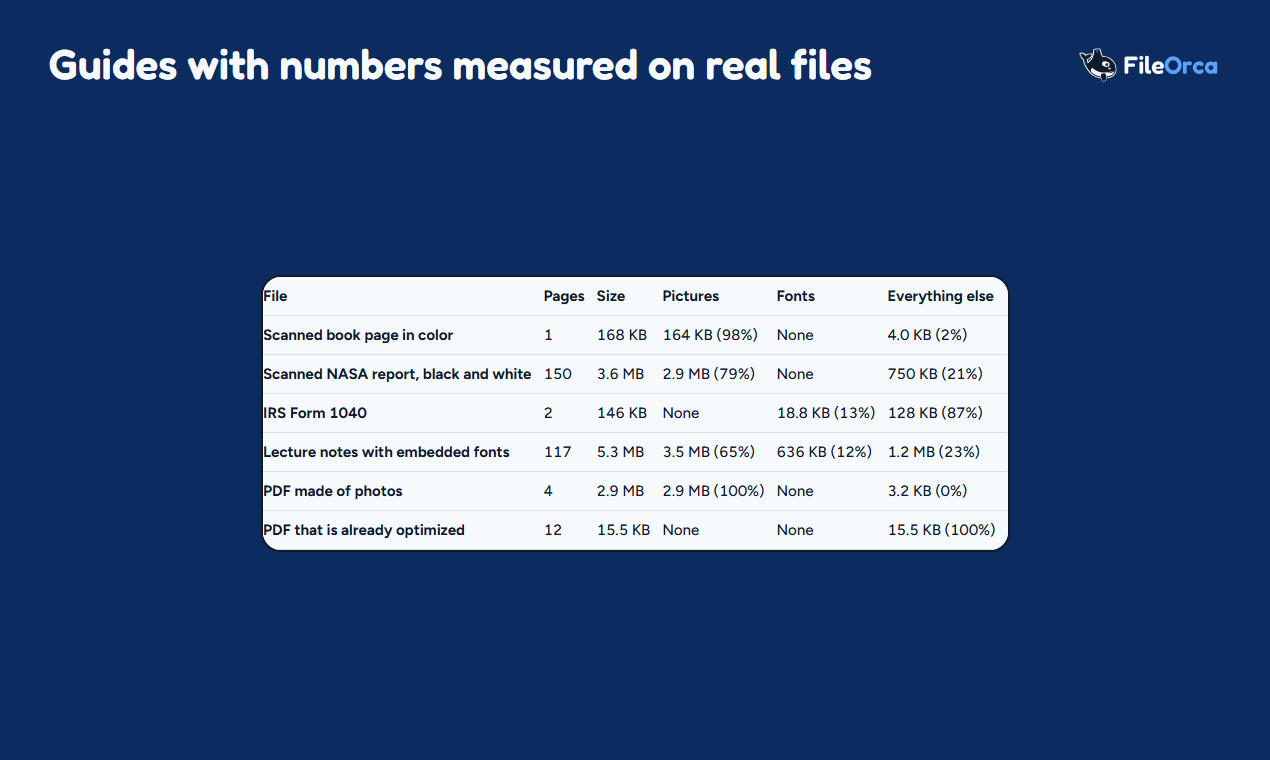
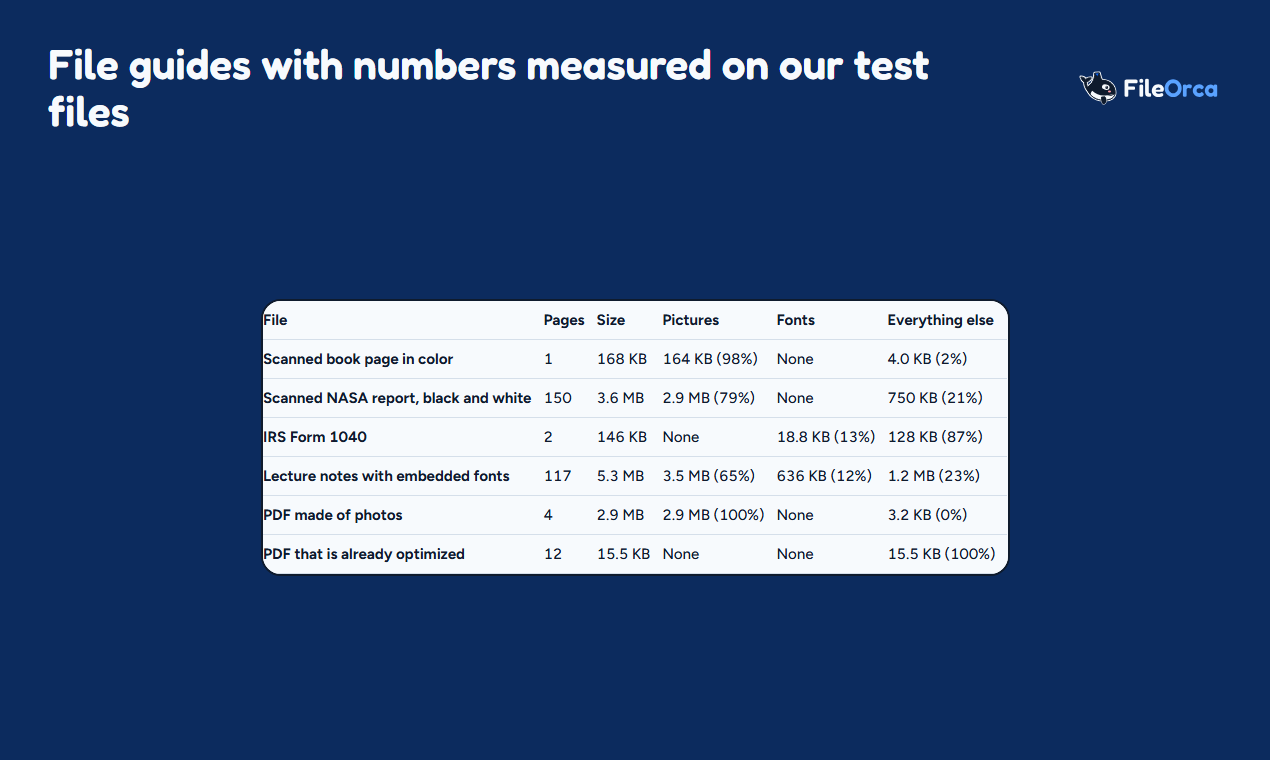
fix(launch): claim only what the proofs cover in the Product Hunt kit
- "measured" goes with the 10 file guides only; the 5 money guides are worked out by the calculators (review A-1)
- offline only after the page and the codec of the file type load; the browsers answer names the two engines the
  tests run; no "No limit", no speed claim, no loose "unlock", no origin story about other sites (A-7, C-2, F-14)
- each item of "Provas" lists its proven phrases, with new items for the ads, Ko-fi, Analytics and cookie notice, and
  the money calculators (C-7); routes.test.ts proves there is no account page
- launch-kit.test.ts fails a technical English sentence with no proven phrase, offline without the codec, an untested
  browser, a forbidden word and "measured" on another count, with controls
- gallery 4 says "File guides with numbers measured on our test files"; images regenerated

Changed region(s): [[0.1843, 0.3632, 0.7984, 0.7566], [0.0307, 0.0605, 0.737, 0.1816], [0.8291, 0.0605, 0.9827, 0.1513]]

diff --git a/tests/unit/launch-kit.test.ts b/tests/unit/launch-kit.test.ts
@@ -11,6 +11,7 @@ import { IMAGE_PRESET_IDS, IMAGE_TOOL_IDS } from '../../src/tools/image/registry
 import { PDF_TOOL_IDS } from '../../src/tools/pdf/registry.ts';
 import { CALC_TOOL_IDS, GUIDE_IDS } from '../../src/tools/calc/registry.ts';
 import { FILE_GUIDE_IDS } from '../../src/tools/guides/registry.ts';
+import { FORBIDDEN_WORDS, TOOL_NAME } from '../../scripts/lib/design-checks.ts';
 import { pngChunks } from '../e2e/lib/png.ts';
 
 const KIT = 'docs/lancamento/product-hunt.md';
@@ -24,6 +25,9 @@ const COUNTS = {
   'pdf-tools': PDF_TOOL_IDS.length,
   calculators: CALC_TOOL_IDS.length,
   guides: GUIDE_IDS.length + FILE_GUIDE_IDS.length,
+  /** Only the file guides have numbers measured on test files; the money guides' come from the engines (DECISOES § 204). */
+  'file-guides': FILE_GUIDE_IDS.length,
+  'money-guides': GUIDE_IDS.length,
 };
 
 /** Limits read on 2026-11-01 (the kit's table "Campos e limites"). */
@@ -36,7 +40,64 @@ const PHRASES: [RegExp, keyof typeof COUNTS][] = [
   [/\b(\d+) PDF tools\b/g, 'pdf-tools'],
   [/\b(\d+) money calculators\b/g, 'calculators'],
   [/\b(\d+) guides\b/g, 'guides'],
+  [/\b(\d+) file guides\b/g, 'file-guides'],
+  [/\b(\d+) money guides\b/g, 'money-guides'],
 ];
+
+// ---- what the English texts may claim (DECISOES § 204 and § 205) ---------------------------------------------------
+
+/** The texts of the kit that go out in English: the code blocks, the taglines, the suggested answers and the captions. */
+function englishOf(text: string): string[] {
+  const out = [...text.matchAll(/```\n([\s\S]*?)\n```/g)].map((match) => match[1] as string);
+  out.push(...[...text.matchAll(/^- \*\*\(\d+\)\*\* `([^`]+)`$/gm)].map((match) => match[1] as string));
+  const questions = text.slice(text.indexOf('## Perguntas prováveis'), text.indexOf('## Imagens'));
+  for (const line of questions.matchAll(/^- \*\*"[^"]+"\*\* (.*)$/gm)) out.push(...[...(line[1] as string).matchAll(/"([^"]+)"/g)].map((match) => match[1] as string));
+  out.push(...[...text.matchAll(/Caption: "([^"]+)"/g)].map((match) => match[1] as string));
+  return out;
+}
+
+const sentencesOf = (texts: readonly string[]): string[] => texts.flatMap((text) => text.split(/(?<=[.!?])\s+|\n+/)).map((sentence) => sentence.trim()).filter(Boolean);
+
+/** The claims of the section "Provas": the quoted phrases of each item's heading, with the files the item cites. */
+function proofsOf(text: string): { claims: string[]; files: string[] }[] {
+  const section = text.slice(text.indexOf('## Provas'), text.indexOf('## O que ficou fora'));
+  return section.split(/\n(?=\d+\. \*\*)/).slice(1).map((item) => ({
+    claims: [...(/^\d+\. \*\*(.+?)\*\*/.exec(item)?.[1] ?? '').matchAll(/"([^"]+)"/g)].map((match) => (match[1] as string).replace(/[.,]$/, '')),
+    files: [...item.matchAll(/`((?:tests|src|scripts)\/[\w./-]+\.ts|playwright\.config\.ts)`/g)].map((match) => match[1] as string),
+  }));
+}
+
+/** A sentence that makes a technical promise: where the file goes, offline, browsers, ads, analytics, account, batches. */
+const TECHNICAL = /\bupload\w*|\boffline\b|\bin your browser\b|\bon your device\b|\bnever leaves\b|\bnever sent\b|\bnot sent\b|\bAdSense\b|\bads?\b|\bAnalytics\b|\bConsent Mode\b|\bcookies?\b|\baccount\b|\bsign-up\b|\bZIP\b|Ctrl\+V|\bWebAssembly\b|\bNetwork tab\b|\bno request\b|\bChromium\b|\bWebKit\b|\bKo-fi\b/i;
+/** The engines the tests run: the projects of playwright.config.ts. Naming another browser claims a test nobody ran. */
+const BROWSER_NAMES = /\b(?:Chromium|WebKit|Chrome|Edge|Firefox|Safari|Opera|Brave|Vivaldi|Samsung Internet)\b/g;
+const TESTED = [...readFileSync('playwright.config.ts', 'utf8').matchAll(/name: '(\w+)'/g)].map((match) => (match[1] as string).toLowerCase());
+
+function claimProblems(text: string): string[] {
+  const problems: string[] = [];
+  const proven = proofsOf(text).filter((proof) => proof.files.length > 0 && proof.files.every((file) => existsSync(file))).flatMap((proof) => proof.claims.map((claim) => claim.toLowerCase()));
+  const english = englishOf(text);
+  for (const sentence of sentencesOf(english)) {
+    const lower = sentence.toLowerCase();
+    if (TECHNICAL.test(sentence) && !proven.some((claim) => lower.includes(claim))) problems.push(`"${sentence}": afirmação técnica sem prova na seção Provas`);
+    if (/\boffline\b/i.test(sentence) && !/\bcodec\b/i.test(sentence)) problems.push(`"${sentence}": offline só depois que a página e o codec carregam (show-hn.md)`);
+    for (const name of sentence.match(BROWSER_NAMES) ?? []) if (!TESTED.includes(name.toLowerCase())) problems.push(`"${sentence}": ${name} não é um motor que os testes rodam (${TESTED.join(', ')})`);
+    if (/\b(?:most|many|other) (?:sites|tools|services|apps)\b/i.test(sentence)) problems.push(`"${sentence}": fala de outros sites sem prova`);
+    const word = FORBIDDEN_WORDS.exec(sentence.replace(TOOL_NAME, ''))?.[0];
+    if (word) problems.push(`"${sentence}": "${word}" é palavra proibida (só o nome "Unlock PDF", § 153)`);
+  }
+  for (const sentence of [...sentencesOf(english), ...proofsOf(text).flatMap((proof) => proof.claims)]) problems.push(...measuredProblems(sentence));
+  return problems;
+}
+
+/** "measured" goes with the file guides only: the nearest count before it is theirs, or the sentence says "file guides". */
+function measuredProblems(sentence: string): string[] {
+  const at = sentence.toLowerCase().search(/\bmeasured\b/);
+  if (at < 0) return [];
+  const last = [...sentence.slice(0, at).matchAll(/\b(\d+)\b/g)].at(-1)?.[1];
+  const ok = last ? Number(last) === COUNTS['file-guides'] : /\bfile guides?\b/i.test(sentence.slice(0, at));
+  return ok ? [] : [`"${sentence}": "measured" vale só para os ${COUNTS['file-guides']} guias de arquivo`];
+}
 
 function countProblems(text: string): string[] {
   const problems: string[] = [];
@@ -103,6 +164,30 @@ describe('the texts of the Product Hunt kit', () => {
     const files = [...proofs.matchAll(/`((?:tests|src|scripts)\/[\w./-]+\.ts|playwright\.config\.ts)`/g)].map((match) => match[1] as string);
     expect(files.length).toBeGreaterThan(5);
     for (const file of files) expect(existsSync(file), file).toBe(true);
+  });
+
+  it('tie every technical sentence in English to a proof, and claim only what the proofs cover (DECISOES § 204 and § 205)', () => {
+    expect(englishOf(kit).length, 'the English texts are found').toBeGreaterThan(10);
+    expect(proofsOf(kit).flatMap((proof) => proof.claims).length, 'the claims of the proofs are found').toBeGreaterThan(10);
+    expect(TESTED).toEqual(['chromium', 'webkit']);
+    expect(claimProblems(kit)).toEqual([]);
+  });
+
+  it('fail an answer with no proof, an untested browser, offline without the codec, a loose "unlock" and "measured" on all guides (controls)', () => {
+    const answer = (text: string): string => kit.replace(/(- \*\*"How do you make money\?"\*\* )"[^"]+"/, `$1"${text}"`);
+    expect(claimProblems(answer('Ads never show next to a download.')).join()).toMatch(/Ads never show next to a download\.": afirmação técnica sem prova/);
+    expect(claimProblems(answer('Every tool is tested automatically in Chromium and in WebKit. Use a current Chrome, Edge, Firefox or Safari.')).join()).toMatch(/Chrome não é um motor.*Firefox não é um motor/);
+    expect(claimProblems(answer('Once a tool has loaded, it keeps working if you go offline.')).join()).toMatch(/offline só depois que a página e o codec carregam/);
+    expect(claimProblems(answer('There is no account. You can protect, unlock and watermark PDFs.')).join()).toMatch(/"unlock" é palavra proibida/);
+    expect(claimProblems(answer('There is no account. Unlock PDF removes a password.'))).toEqual([]);
+    expect(claimProblems(answer('There is no account, and most sites want you to upload it first.')).join()).toMatch(/fala de outros sites/);
+    expect(measuredProblems('plus 15 guides whose numbers were measured on real test files')).toHaveLength(1);
+    expect(measuredProblems('15 guides with measured numbers')).toHaveLength(1);
+    expect(measuredProblems(`15 guides, ${COUNTS['file-guides']} of them with numbers measured on real test files`)).toEqual([]);
+    expect(measuredProblems('File guides with numbers measured on real files')).toEqual([]);
+    expect(measuredProblems('Guides with numbers measured on real files')).toHaveLength(1);
+    // A proof whose test file does not exist proves nothing.
+    expect(claimProblems(kit.replace('`tests/e2e/consent.spec.ts`', '`tests/e2e/no-such.spec.ts`')).join()).toMatch(/Google Analytics with Consent Mode.*afirmação técnica sem prova/);
   });
 
   it('say no forbidden word, no "fastest", "best" or "#1" in the English texts', () => {

diff --git a/tests/unit/routes.test.ts b/tests/unit/routes.test.ts
@@ -84,6 +84,16 @@ describe('mapa de rotas', () => {
     expect(pages.sort()).toEqual([...expected].sort());
   });
 
+  it('has no page of an account: no sign-in, sign-up, login or profile, the proof of "There is no account" in the launch kit (DECISOES § 205)', () => {
+    const ACCOUNT = /(?:^|[/-])(?:login|log-?in|sign-?in|sign-?up|register|account|profile|my-?files|entrar|cadastro|conta|cuenta|registro|perfil)(?:[/-]|$)/i;
+    const paths = ROUTES.flatMap((route) => Object.values(route.paths));
+    expect(paths.filter((path) => ACCOUNT.test(path))).toEqual([]);
+    expect(pageFiles().filter((file) => ACCOUNT.test(file.replace(/^src\/pages/, '').replace(/\/index\.astro$/, '')))).toEqual([]);
+    // The rule sees an account page (control).
+    expect(ACCOUNT.test('/account/')).toBe(true);
+    expect(ACCOUNT.test('/pt/entrar/')).toBe(true);
+  });
+
   it('points every route at its view and text files', () => {
     for (const route of ROUTES) {
       expect(existsSync(route.view), route.view).toBe(true);

diff --git a/scripts/lancamento/imagens.ts b/scripts/lancamento/imagens.ts
@@ -221,7 +221,7 @@ const SHOTS: Shot[] = [
   },
   {
     file: 'gallery-4.png',
-    caption: 'Guides with numbers measured on real files',
+    caption: 'File guides with numbers measured on our test files',
     alt: 'The guide "Why is my PDF so large?": its table of what takes the space in each test PDF, in pictures, fonts and everything else.',
     take: async (page) => {
       await open(page, '/guides/why-is-my-pdf-so-large/');

diff --git a/docs/lancamento/product-hunt.md b/docs/lancamento/product-hunt.md
@@ -102,16 +102,16 @@ Taglines (limite de 60):
 
 Por que a primeira: diz as três áreas e a diferença, sem adjetivo nem número. A segunda põe "free" na frente, que é verdade e é o que o visitante procura. A terceira troca a categoria pelas ações mais buscadas.
 
-**Descrição A (437 caracteres):**
+**Descrição A (443 caracteres):**
 
 ```
-FileOrca is a set of free tools for everyday files, and the work happens in your browser: your files are not uploaded. Compress, resize, crop and convert images (HEIC, WebP, PNG, JPG), merge, split, compress and sign PDFs, and work out a mortgage or a debt payoff plan. There are 8 image tools, 12 PDF tools and 14 money calculators, plus 15 guides whose numbers were measured on real test files. No sign-up: open a tool and drop a file.
+FileOrca is a set of free tools for everyday files, and the work happens in your browser: your files are not uploaded. Compress, resize, crop and convert images (HEIC, WebP, PNG, JPG), merge, split, compress and sign PDFs, and work out a mortgage or a debt payoff plan. There are 8 image tools, 12 PDF tools and 14 money calculators, plus 15 guides, 10 of them with numbers measured on real test files. No sign-up: open a tool and drop a file.
 ```
 
-**Descrição B (301 caracteres):**
+**Descrição B (313 caracteres):**
 
 ```
-Free image, PDF and money tools that run in your browser. Your files are not uploaded: the work happens on your device, and you can see it in the Network tab. 8 image tools, 12 PDF tools, 14 money calculators and 15 guides with measured numbers. No sign-up, and a batch of files comes back as one ZIP.
+Free image, PDF and money tools that run in your browser. Your files are not uploaded: the work happens on your device, and you can see it in the Network tab. 8 image tools, 12 PDF tools, 14 money calculators and 15 guides, 10 of them with measured numbers. No sign-up, and a batch of files comes back as one ZIP.
 ```
 
 Por que a A: começa pelo que é e pela diferença, lista o que dá para fazer com os nomes que as pessoas buscam (HEIC, WebP) e termina no que a pessoa faz primeiro. A B é a curta, para quando a página de produto já mostrar a lista na galeria.
@@ -124,20 +124,20 @@ Escolha até 3 no formulário. Sugestões, pela ordem: **Productivity**, **Priva
 
 Poste como o primeiro comentário, logo que o lançamento entrar no ar. Reescreva com as suas palavras: o Product Hunt não quer comentário de IA.
 
-**Primeiro comentário (1506 caracteres):**
+**Primeiro comentário (1544 caracteres):**
 
 ```
 Hi Product Hunt! I'm Victor, a developer in Curitiba, Brazil, and I built FileOrca on my own.
 
-It started with a small annoyance: to make a photo smaller or turn an iPhone HEIC into a JPG, most sites want you to upload it first. That work can happen on your own device, so I built the tools to do it there.
+FileOrca does the work in your browser: you can make a photo smaller or turn an iPhone HEIC into a JPG without uploading it.
 
 What you can do today:
 - Images: compress, resize, crop, rotate, HEIC to JPG, WebP to JPG, PNG to JPG, and images into one PDF. 8 image tools and 3 presets for common limits.
-- PDFs: merge, split, compress, PDF to JPG, sign, protect, unlock, watermark, page numbers and more. 12 PDF tools.
+- PDFs: merge, split, compress, PDF to JPG, sign, add or remove a password, watermark, page numbers and more. 12 PDF tools.
 - Money: a mortgage calculator, refinance, loans, debt payoff and others. 14 money calculators.
-- 15 guides, where every number was measured on real test files with the same tools.
+- 15 guides: 10 file guides with numbers measured on real test files with the same tools, and 5 money guides worked out by the engines of the calculators.
 
-How it works: the site is static. The tools run in your browser, with WebAssembly codecs that load the first time you need them. Your file is not uploaded: open the Network tab in your browser's developer tools, use a tool, and you will see that no request carries it. Once a tool has loaded, it keeps working if you go offline.
+How it works: the site is static. The tools run in your browser, with WebAssembly codecs that load the first time you need them. Your file is not uploaded: open the Network tab in your browser's developer tools, use a tool, and you will see that no request carries it. After the page and the codec for your type of file have loaded, the tool keeps working if you go offline.
 
 There is no account. You can drop one file or a whole batch, paste with Ctrl+V, and get a batch back as one ZIP.
 
@@ -148,7 +148,9 @@ I would love your feedback: what file did you try, did it work, and what tool is
 
 Notas sobre o texto:
 
-- As afirmações técnicas do comentário são as da seção "Provas": o arquivo não é enviado (Network tab), a ferramenta segue funcionando offline depois de carregar, e as contagens dos registros.
+- As afirmações técnicas do comentário são as da seção "Provas": o arquivo não é enviado (Network tab), a ferramenta segue funcionando offline depois que a página e o codec do tipo de arquivo carregaram, os anúncios fora das ferramentas, o Ko-fi, a ausência de conta, o lote com Ctrl+V e ZIP, e as contagens dos registros. O `tests/unit/launch-kit.test.ts` reprova uma frase técnica em inglês que não contenha uma das frases provadas.
+- O comentário não conta a história de como o site nasceu: a run não sabe essa história. Se quiser contá-la, escreva com as suas palavras, sem falar de outros sites.
+- "measured" vale só para os 10 guias de arquivo. Os 5 guias de dinheiro têm os números calculados pelos motores das calculadoras, sem arquivo de teste.
 - A frase "ads from Google AdSense" só vale **se os anúncios estiverem ligados no dia**. Se não estiverem, troque por "Ads are not on yet. When they are, Google AdSense will pay the costs. There is also an optional Ko-fi link."
 - O comentário não diz se o código é aberto. Veja a pergunta abaixo.
 - A exclamação do "Hi Product Hunt!" é do tom do site, mas reescreva como você cumprimentaria.
@@ -157,12 +159,12 @@ Notas sobre o texto:
 
 Só use o que for verdade no dia. Responda curto, com curiosidade e sem comparar para ganhar.
 
-- **"How do you make money?"** "Ads from Google AdSense, kept away from the tools, and an optional Ko-fi link. There is no paid plan." (Se os anúncios ainda não estiverem ligados, diga isso e que o AdSense vai pagar os custos quando estiverem.)
-- **"Why no upload? Isn't a server faster?"** "For most files the device is fast enough, and it means your file never leaves it. Private photos and documents stay private, and there is no server holding copies."
-- **"Are there limits?"** "No limit on how many files you drop at once. The real limit is your device's memory: a very large photo or a very long PDF can be too much for an older phone." (Não invente um número.)
-- **"Which browsers?"** "Every tool is tested automatically in Chromium and in WebKit. Use a current Chrome, Edge, Firefox or Safari." (Afirme só os dois motores que os testes cobrem.)
+- **"How do you make money?"** "Ads from Google AdSense, kept away from the tools, and an optional Ko-fi link. There is no paid plan." (Se os anúncios ainda não estiverem ligados, diga isso e que o AdSense vai pagar os custos quando estiverem. Provas 9 e 10.)
+- **"Why no upload? Isn't a server faster?"** "The work happens in your browser, so your file never leaves your device. Private photos and documents stay private, and there is no server holding copies." (Não diga que é mais rápido: a run não mediu velocidade. Prova 1.)
+- **"Are there limits?"** "You can drop a whole batch at once, or paste it with Ctrl+V. A very large photo or a very long PDF can be too much for the memory of an older phone." (Não invente um número. Prova 8.)
+- **"Which browsers?"** "Every tool is tested automatically in Chromium and in WebKit. I have not tested other browsers, so tell me if something fails in yours." (Afirme só os dois motores que os testes cobrem: o teste do kit reprova o nome de outro navegador. Prova 4.)
 - **"Is it open source?"** Se o repositório público do motor de imagem existir no dia, responda com o link dele: "The image engine is open source: <link>." Se não existir, **esta linha sai**: diga com franqueza que o site não é código aberto e que o que é verificável é a aba Network e as licenças em <https://fileorca.com/licenses/>.
-- **"What about my data / analytics?"** "Your files are never sent. The site uses Google Analytics with Consent Mode, only on fileorca.com, and there is a cookie notice with Accept and Decline." Não diga que recusar desliga o Analytics.
+- **"What about my data / analytics?"** "Your files are never sent. The site uses Google Analytics with Consent Mode, only on fileorca.com, and there is a cookie notice with Accept and Decline." Não diga que recusar desliga o Analytics. (Provas 1 e 11.)
 
 ## Imagens
 
@@ -174,35 +176,43 @@ Geradas por `pnpm lancamento:imagens` (`scripts/lancamento/imagens.ts`), fora do
 | `thumbnail.png` | Miniatura (estática) | 240 × 240 | 9.954 bytes | The Oli, the FileOrca orca, waving on a round patch of sea. |
 | `thumbnail.gif` | Miniatura (animada) | 240 × 240 | 235.811 bytes | The Oli floating and waving, then jumping in a cheer, on a round patch of sea. |
 | `gallery-1.png` | Galeria | 1270 × 760 | 108.535 bytes | The FileOrca home page: the heading and the cards of the image tools. Caption: "Image, PDF and money tools that run in your browser". |
-| `gallery-2.png` | Galeria | 1270 × 760 | 151.228 bytes | HEIC to JPG with two iPhone photos converted: the result card, its Download button and the list of files. Caption: "HEIC to JPG: iPhone photos as JPGs, without uploading them". |
+| `gallery-2.png` | Galeria | 1270 × 760 | 151.226 bytes | HEIC to JPG with two iPhone photos converted: the result card, its Download button and the list of files. Caption: "HEIC to JPG: iPhone photos as JPGs, without uploading them". |
 | `gallery-3.png` | Galeria | 1270 × 760 | 115.062 bytes | Compress PDF with a PDF of photos: the result card with the size before and after, and its Download button. Caption: "Compress PDF: a PDF of photos made much lighter". |
-| `gallery-4.png` | Galeria | 1270 × 760 | 73.179 bytes | The guide "Why is my PDF so large?": its table of what takes the space in each test PDF, in pictures, fonts and everything else. Caption: "Guides with numbers measured on real files". |
+| `gallery-4.png` | Galeria | 1270 × 760 | 75.557 bytes | The guide "Why is my PDF so large?": its table of what takes the space in each test PDF, in pictures, fonts and everything else. Caption: "File guides with numbers measured on our test files". |
 | `gallery-5.png` | Galeria | 1270 × 760 | 165.127 bytes | The mortgage calculator with its example filled in: the fields and the monthly payment. Caption: "Money calculators that keep your numbers on your device". |
 <!-- fim das imagens -->
 
 ## Provas
 
-Cada afirmação técnica do kit tem um teste que passa no `pnpm verificar` da run F5b (relatório em `docs/relatorios/fase-05b.md`).
+Cada afirmação técnica do kit tem um teste que passa no `pnpm verificar` da run F5b (relatório em `docs/relatorios/fase-05b.md`). As frases entre aspas no título de cada item são as frases provadas: o `tests/unit/launch-kit.test.ts` reprova uma frase técnica dos textos em inglês (sobre envio, offline, navegadores, anúncios, Analytics, conta e lote) que não contenha uma delas, e uma prova cujo arquivo de teste não exista.
 
-1. **"Your file is not uploaded" / "no request carries it".** Nenhum byte do arquivo sai do navegador.
+1. **"not uploaded" / "never upload your files" / "without uploading" / "no request carries it" / "never sent" / "never leaves your device" / "in your browser".** Nenhum byte do arquivo sai do navegador.
    - **Prova:** `tests/e2e/launch-claims.spec.ts`, no Chromium e no WebKit, na Compress image, na HEIC to JPG, na Image to PDF, na Compress PDF, na PDF to JPG, na Protect PDF e, desde a F5b, dentro de dois guias (HEIC to JPG e Compress PDF embutidas). Da carga da página até o download, cada requisição da página e dos workers é um GET para a própria origem, sem corpo e sem query string.
    - **Também:** `tests/e2e/image-privacy.spec.ts`, `tests/e2e/pdf-privacy.spec.ts` e `tests/e2e/tool-guides.spec.ts` (o nome do arquivo só aparece no nome do download).
-2. **"Once a tool has loaded, it keeps working if you go offline."**
-   - **Prova:** o mesmo `launch-claims.spec.ts`: depois do primeiro arquivo, `context.setOffline(true)`, e o segundo arquivo é processado e baixado sem nenhuma requisição de rede.
-3. **"WebAssembly codecs that load the first time you need them."**
+2. **"the tool keeps working if you go offline".** Só depois que a página e o codec do tipo de arquivo carregaram (a frase do `docs/lancamento/show-hn.md`); o teste do kit reprova a frase de offline que não fale do codec.
+   - **Prova:** o mesmo `tests/e2e/launch-claims.spec.ts`: depois do primeiro arquivo, `context.setOffline(true)`, e o segundo arquivo, que usa o mesmo codec do primeiro, é processado e baixado sem nenhuma requisição de rede. Um arquivo que precise de outro codec (na Compress PDF, um PDF de fotos depois de um PDF de texto) não está provado offline.
+3. **"WebAssembly codecs that load the first time you need them".**
    - **Prova:** `tests/e2e/budgets.spec.ts`: nenhuma página de ferramenta ou guia pede um worker ou um `.wasm` antes do primeiro arquivo, e cada uma carrega dois arquivos de JavaScript.
-4. **"Every tool is tested automatically in Chromium and in WebKit."**
+4. **"tested automatically in Chromium and in WebKit".** Só esses dois motores: o teste do kit reprova o nome de outro navegador (Chrome, Edge, Firefox, Safari) nos textos em inglês.
    - **Prova:** `playwright.config.ts` (os dois projetos) e as partes do CI, que rodam a suíte inteira nos dois motores.
-5. **"15 guides, where every number was measured on real test files."**
-   - **Prova:** `tests/unit/guides-measured.test.ts` (cada número dos 10 guias de arquivo vem de `data/guides-measured.json`, com amostra, método e data) e `tests/unit/guides-numbers.test.ts` (nenhum algarismo à mão). Os 5 guias de dinheiro têm os números calculados pelos motores no build (`tests/unit/calc-guides.test.ts`).
-6. **As contagens** (8 image tools, 3 presets, 12 PDF tools, 14 money calculators, 15 guides).
+5. **"10 of them with numbers measured on real test files" / "10 of them with measured numbers" / "10 file guides with numbers measured on real test files" / "File guides with numbers measured on our test files".** "measured" vale só para os 10 guias de arquivo; os 5 guias de dinheiro têm os números calculados pelos motores das calculadoras no build.
+   - **Prova:** `tests/unit/guides-measured.test.ts` (cada número dos 10 guias de arquivo vem de `data/guides-measured.json`, com amostra, método e data), `tests/unit/guides-numbers.test.ts` (nenhum algarismo à mão) e `tests/unit/calc-guides.test.ts` (os guias de dinheiro contra o motor e o oráculo). O `tests/unit/launch-kit.test.ts` reprova "measured" junto de outra contagem.
+6. **As contagens** (8 image tools, 3 presets, 12 PDF tools, 14 money calculators, 15 guides, 10 file guides, 5 money guides).
    - **Prova:** `tests/unit/launch-kit.test.ts` compara cada contagem deste arquivo com os registros (`src/tools/image/registry.ts`, `src/tools/pdf/registry.ts`, `src/tools/calc/registry.ts`, `src/tools/guides/registry.ts`).
-7. **"There is no account."**
-   - **Prova:** `tests/unit/routes.test.ts` lista todas as rotas do site, e nenhuma é de conta ou login.
-8. **"Paste with Ctrl+V, and get a batch back as one ZIP."**
-   - **Prova:** `tests/e2e/image-batch.spec.ts` ("one ZIP with unique names that opens…" e "takes every image of the clipboard as one batch…"), no Chromium e no WebKit.
+7. **"There is no account" / "No sign-up".**
+   - **Prova:** `tests/unit/routes.test.ts`: a lista de rotas é a do mapa, nenhuma página fica fora dele, e nenhum caminho nem página é de conta, login, cadastro ou perfil ("has no page of an account").
+8. **"paste with Ctrl+V" / "paste it with Ctrl+V" / "a whole batch" / "as one ZIP".**
+   - **Prova:** `tests/e2e/image-batch.spec.ts` ("one ZIP with unique names that opens…", "more than 6 files show 6 rows…" e "takes every image of the clipboard as one batch…"), no Chromium e no WebKit.
+9. **"outside the tools" / "kept away from the tools".**
+   - **Prova:** `tests/e2e/ads.spec.ts`: nenhum AdSlot dentro do `#fo-tool-root`, nada a menos de 150 px do painel, dos campos, do Baixar e da Oli, e nada acima da ferramenta no celular, em cada ferramenta e guia, em repouso, processando e com resultado.
+10. **"an optional Ko-fi link".**
+    - **Prova:** `tests/e2e/coffee.spec.ts`: a linha do Ko-fi aparece só no terceiro uso, some com "Don't show this again" e não aparece com o consentimento recusado.
+11. **"Google Analytics with Consent Mode, only on fileorca.com" / "a cookie notice with Accept and Decline".**
+    - **Prova:** `tests/e2e/consent.spec.ts` ("consent defaults come before config…", "Accept/Decline updates consent…" e "no gtag.js and no request to Google outside fileorca.com") e `tests/e2e/consent-choice.spec.ts`.
+12. **"keep your numbers on your device".** A legenda da galeria 5.
+    - **Prova:** `tests/e2e/money-privacy.spec.ts` ("no typed number leaves the device"), em cada calculadora e guia de dinheiro.
 
-<!-- contagens: image-tools=8 image-presets=3 pdf-tools=12 calculators=14 guides=15 -->
+<!-- contagens: image-tools=8 image-presets=3 pdf-tools=12 calculators=14 guides=15 file-guides=10 money-guides=5 -->
 
 ## O que ficou fora do texto de propósito
 
